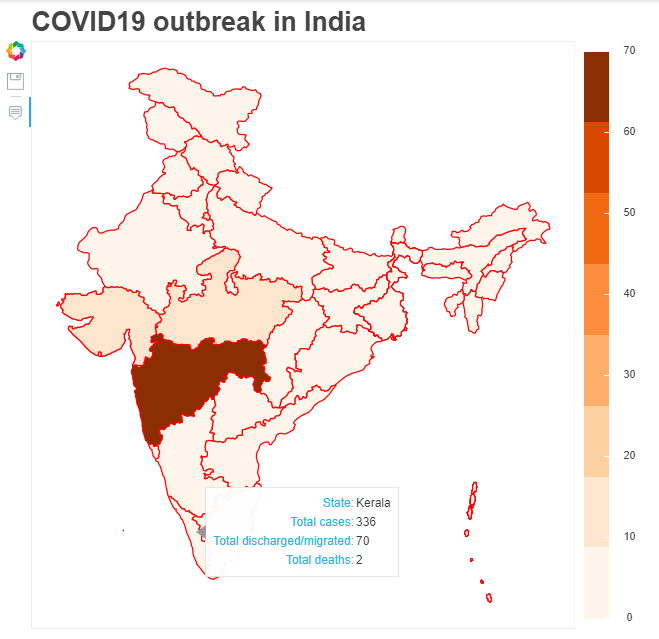
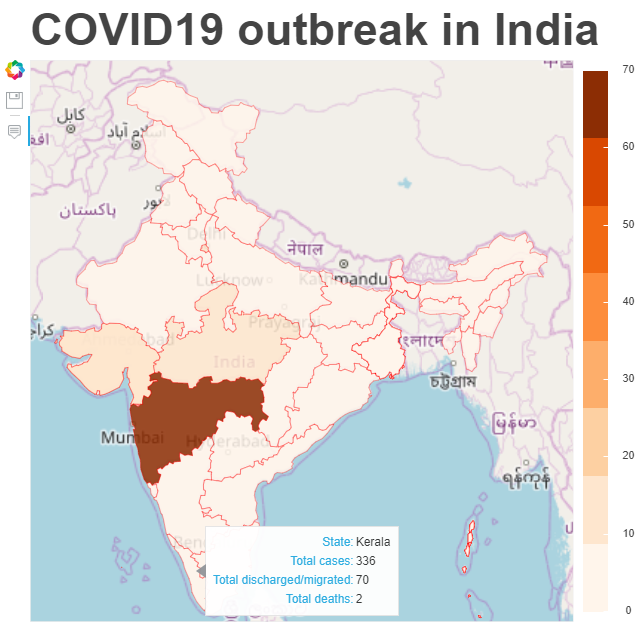
Added Map tile overlay support

diff --git a/app/COVID19_India.py b/app/COVID19_India.py
@@ -10,15 +10,14 @@ from bokeh.io.doc import curdoc
 from bokeh.palettes import brewer
 from bokeh.plotting import figure
 from bokeh.plotting import show as plt_show
+from bokeh.tile_providers import Vendors, get_provider
 from bokeh.io import output_notebook, show, output_file
 from bokeh.layouts import widgetbox, row, column, gridplot
-from bokeh.tile_providers import Vendors, get_provider
-from bokeh.models import Slider, HoverTool, Select, Div, Range1d, WMTSTileSource
 from bokeh.models import GeoJSONDataSource, LinearColorMapper, ColorBar, NumeralTickFormatter
+from bokeh.models import Slider, HoverTool, Select, Div, Range1d, WMTSTileSource, BoxZoomTool
 
 India_statewise = geopandas.read_file('https://github.com/MoadComputer/covid19-visualization/raw/master/data/GeoJSON_assets/India_statewise_minified.geojson')
-India_statewise.crs = {'init': 'epsg:4326'}
-India_statewise.head()
+India_statewise = India_statewise.to_crs("EPSG:3395")
 
 covid19_data = pd.read_csv('https://github.com/MoadComputer/covid19-visualization/raw/master/data/India_statewise/COVID19_India_statewise.csv')
 covid19_data.loc[covid19_data['state'] == 'Telengana', 'state'] = 'Telangana'
@@ -42,13 +41,15 @@ merged_json = merged_data['json_data']
 def covid19_plot(covid19_geosource, 
                  input_df=None,
                  input_field=None,
-                 plot_title=None):
+                 plot_title=None,
+                 map_overlay=True,
+                 enable_toolbar=True):
   palette = brewer['Oranges'][8]
   palette = palette[::-1]
   hover = HoverTool(tooltips = [('State','@state'),
-                                ('Cases', '@total_cases'),
-                                #('Discharged', '@discharged'),
-                                ('Deaths', '@deaths')])
+                                ('Total cases', '@total_cases'),
+                                ('Total discharged/migrated', '@discharged'),
+                                ('Total deaths', '@deaths')])
   color_mapper = LinearColorMapper(palette = palette, 
                                    low = 0, 
                                    high = int(10*(np.ceil(np.max(input_df[input_field].values)/10))))
@@ -58,24 +59,36 @@ def covid19_plot(covid19_geosource,
                        formatter=format_tick,
                        border_line_color=None, 
                        location = (0, 0))
+  if map_overlay:
+    xmin = 8450000
+    xmax = 10000000
+    ymin = 850000
+    ymax = 4550000
   plt = figure(title = plot_title,
-               tools='', 
-               plot_height = 550, plot_width = 640,
-               toolbar_location = None, #'left',
-               lod_factor=int(1e7),
+               x_range=(xmin, xmax) if map_overlay else None,
+               y_range=(ymin, ymax) if map_overlay else None,
+               tools='save' if enable_toolbar else '', 
+               plot_height = 640, plot_width = 640,
+               toolbar_location = 'left' if enable_toolbar else None,
+               #lod_factor=int(1e7),
                #lod_threshold=int(2),
                output_backend="webgl"
-             )
+               )
+  if map_overlay:
+    wmts = WMTSTileSource(url="http://c.tile.openstreetmap.org/{Z}/{X}/{Y}.png")
+    plt.add_tile(wmts)
+    plt.xaxis.axis_label = 'longitude'
+    plt.yaxis.axis_label = 'latitude'
   plt.xgrid.grid_line_color = None
   plt.ygrid.grid_line_color = None
   plt.axis.visible = False
   plt.patches('xs','ys', 
-            source = covid19_geosource, 
-            fill_color = {'field' : 'deaths', 
-                          'transform' : color_mapper},
-            line_color = 'red', 
-            line_width = 1.25, 
-            fill_alpha = 1)
+              source = covid19_geosource, 
+              fill_color = {'field' : 'deaths', 
+                            'transform' : color_mapper},
+              line_color = 'red', 
+              line_width = 0.34, 
+              fill_alpha = 0.85)
   plt.add_layout(color_bar, 'right')
   plt.add_tools(hover)
   plt.title.text_font_size = '34pt'
